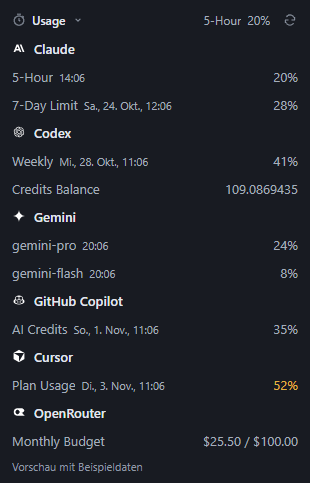
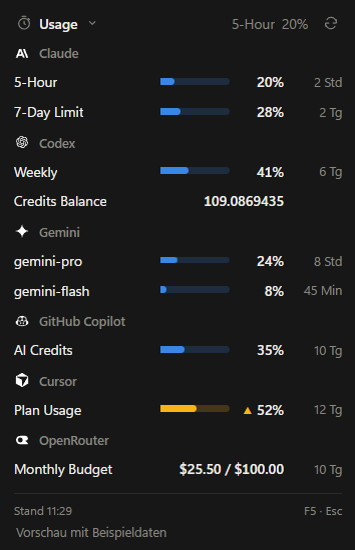
feat: make Kompakt the default design and mark Klassisch as legacy (#2)
New installations and settings without a saved design, including updates
from 1.1.6 and earlier, now start with Kompakt. Klassisch moves to the end
of the "Design" menu as "Klassisch (Legacy)" behind a separator; it stays
selectable, and an explicitly saved choice is kept.

Update the README screenshot to the Kompakt design and adapt the smoke test
to the new default row height.

diff --git a/src/renderer/renderer.js b/src/renderer/renderer.js
@@ -2,7 +2,7 @@
 const api = window.usageBar;
 const views = window.UsageViews;
 const elements = Object.fromEntries(['toggle', 'refresh', 'headline', 'providers', 'demo-note', 'mode-switch', 'hero', 'alert', 'timeline', 'footer'].map((id) => [id, document.getElementById(id)]));
-let state = { providers: [], loading: true, settings: { expanded: true, displayMode: 'usage', providers: ['claude', 'codex'], headlineProvider: 'claude', theme: 'classic' } };
+let state = { providers: [], loading: true, settings: { expanded: true, displayMode: 'usage', providers: ['claude', 'codex'], headlineProvider: 'claude', theme: 'compact' } };
 
 function headlineEntry() {
   const selected = state.providers.find((provider) => provider.id === state.settings.headlineProvider && state.settings.providers.includes(provider.id));
@@ -54,7 +54,7 @@ function renderExtras(ctx, providers, entry, expanded) {
 
 function applyDocumentFlags(settings) {
   const root = document.documentElement;
-  root.dataset.theme = settings.theme || 'classic';
+  root.dataset.theme = settings.theme || 'compact';
   root.toggleAttribute('data-pace', Boolean(settings.showPace));
 }
 

diff --git a/src/renderer/index.html b/src/renderer/index.html
@@ -1,5 +1,5 @@
 <!doctype html>
-<html lang="de" data-theme="classic">
+<html lang="de" data-theme="compact">
   <head>
     <meta charset="UTF-8">
     <meta name="viewport" content="width=device-width, initial-scale=1">

diff --git a/README.md b/README.md
@@ -53,7 +53,7 @@ The interface currently uses German labels; their English meanings are included 
 - Click the refresh button or press F5 to update the values. Updates also run automatically every 3 minutes.
 - Press Escape, click outside the window, or click the tray icon again to close the view.
 - Right-click to open the menu with provider selection, used/remaining display, header status, and optional startup with Windows.
-- Under "Design", pick one of seven looks: Klassisch (the original), Fluent, Kacheln (tiles), Terminal, Fokus, Hell (light) and Kompakt (compact).
+- Under "Design", pick one of seven looks: Kompakt (compact, the default), Fluent, Kacheln (tiles), Terminal, Fokus, Hell (light) and Klassisch (Legacy). Klassisch is the original look from versions up to 1.1.6. It remains available for now but receives no further design work and may be removed in a future version.
 - Under "Funktionen" (Features), turn on optional views that work with every design:
   - **Verbrauchstempo (Pace):** marks how much of each limit's time window has passed. A warning arrow appears when usage at the current rate would hit 100% before the reset. Limits without a reported window length, such as GitHub Copilot and Cursor, show no pace marker.
   - **Reset-Zeitleiste (Reset timeline):** shows when each limit resets over the next two weeks. The first 24 hours take up more of the axis.

diff --git a/CHANGELOG.md b/CHANGELOG.md
@@ -1,5 +1,10 @@
 # Changelog
 
+## Unreleased
+
+- Make Kompakt the default design for new installations and for settings without a saved design, including updates from 1.1.6 and earlier.
+- Mark Klassisch as legacy: it is listed last in the "Design" menu as "Klassisch (Legacy)", stays selectable, and may be removed in a future version. An explicitly saved Klassisch choice is kept.
+
 ## 1.2.0 - 2026-10-27
 
 - Add a "Design" tray submenu with seven popup designs: Klassisch (unchanged default), Fluent, Kacheln, Terminal, Fokus, Hell and Kompakt. The window background follows the selected design.
